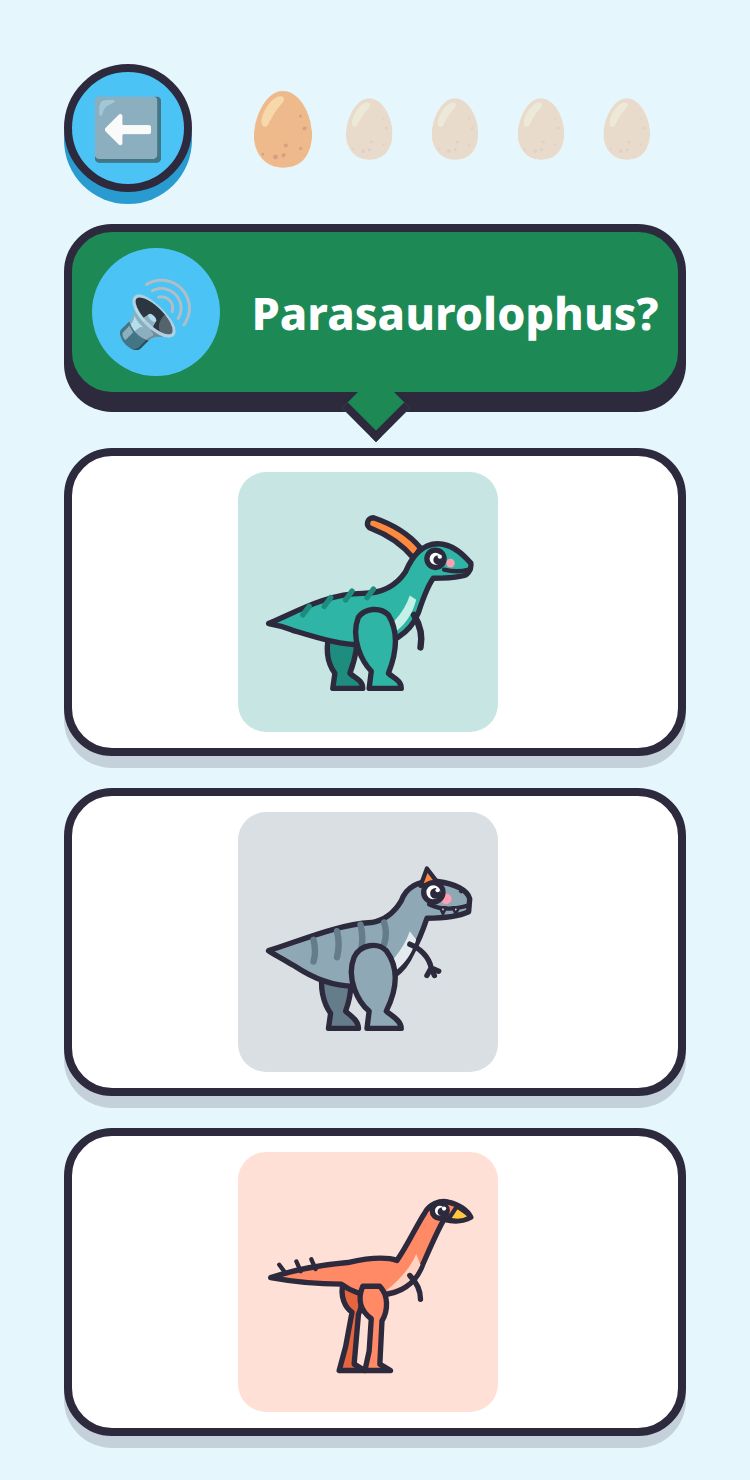
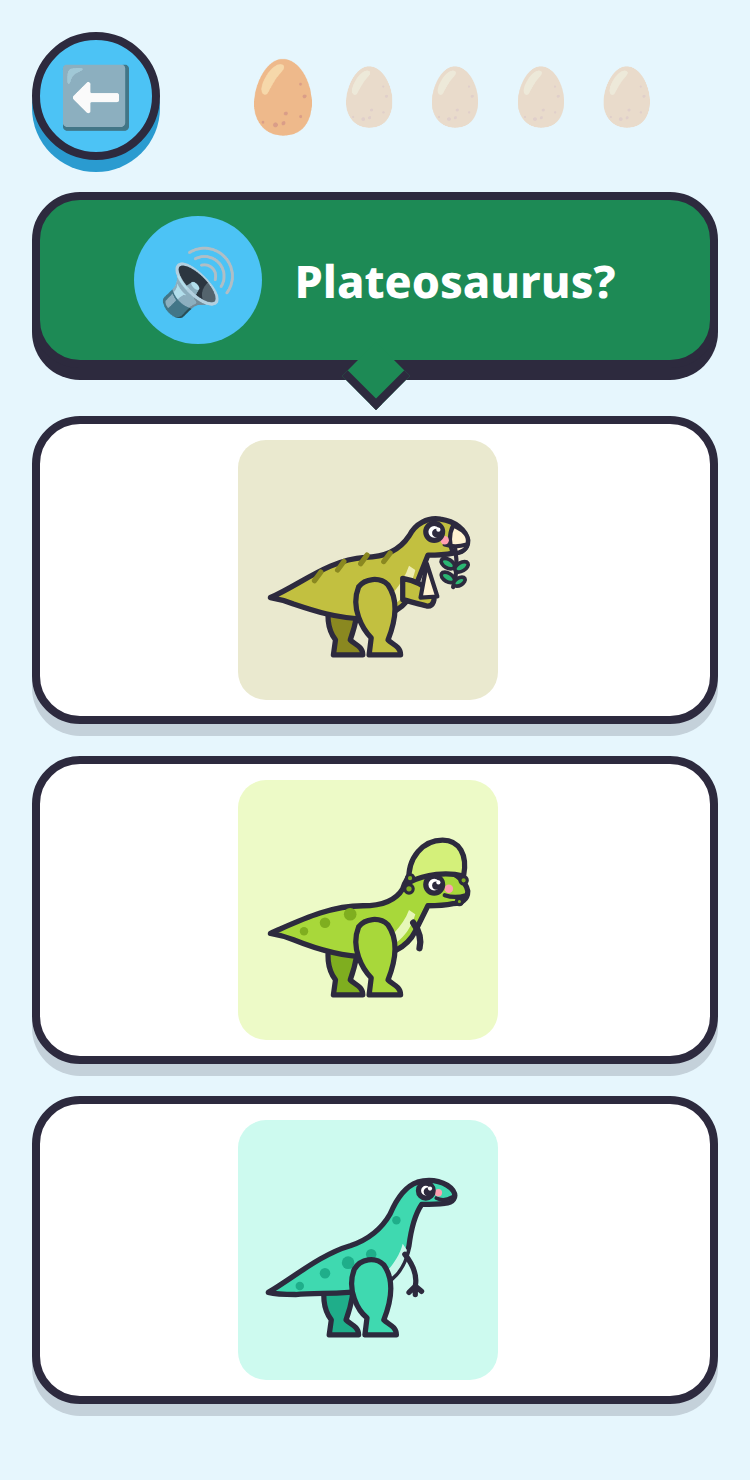
WIP screenshot refresh

diff --git a/README.md b/README.md
@@ -8,8 +8,12 @@ Dino Explorer is a colorful web app that teaches children aged 4 to 8 the names 
 |---|---|---|---|
 | ![Home](docs/screenshots/home.png) | ![Learn](docs/screenshots/learn.png) | ![Dino detail](docs/screenshots/detail.png) | ![Play](docs/screenshots/play.png) |
 
-| Name Quiz | Memory Match | Egg Hatch |
-|---|---|---|
-| ![Name Quiz](docs/screenshots/game-name-quiz.png) | ![Memory Match](docs/screenshots/game-memory-match.png) | ![Egg Hatch](docs/screenshots/game-egg-hatch.png) |
+| Name Quiz | Memory Match | Egg Hatch | Dino Snacks |
+|---|---|---|---|
+| ![Name Quiz](docs/screenshots/game-name-quiz.png) | ![Memory Match, two cards turned over](docs/screenshots/game-memory-match-mid.png) | ![Egg Hatch, first crack](docs/screenshots/game-egg-hatch-mid.png) | ![Dino Snacks](docs/screenshots/game-dino-snacks.png) |
+
+| Sticker book |
+|---|
+| ![Sticker book](docs/screenshots/stickers.png) |
 
 To regenerate: `npm run build && npx vite preview --port 4179`, then in another shell `npm install --no-save playwright-core && node docs/screenshots/capture.mjs` (uses the system Chrome; set `CHROME=/path/to/chrome` if needed).
